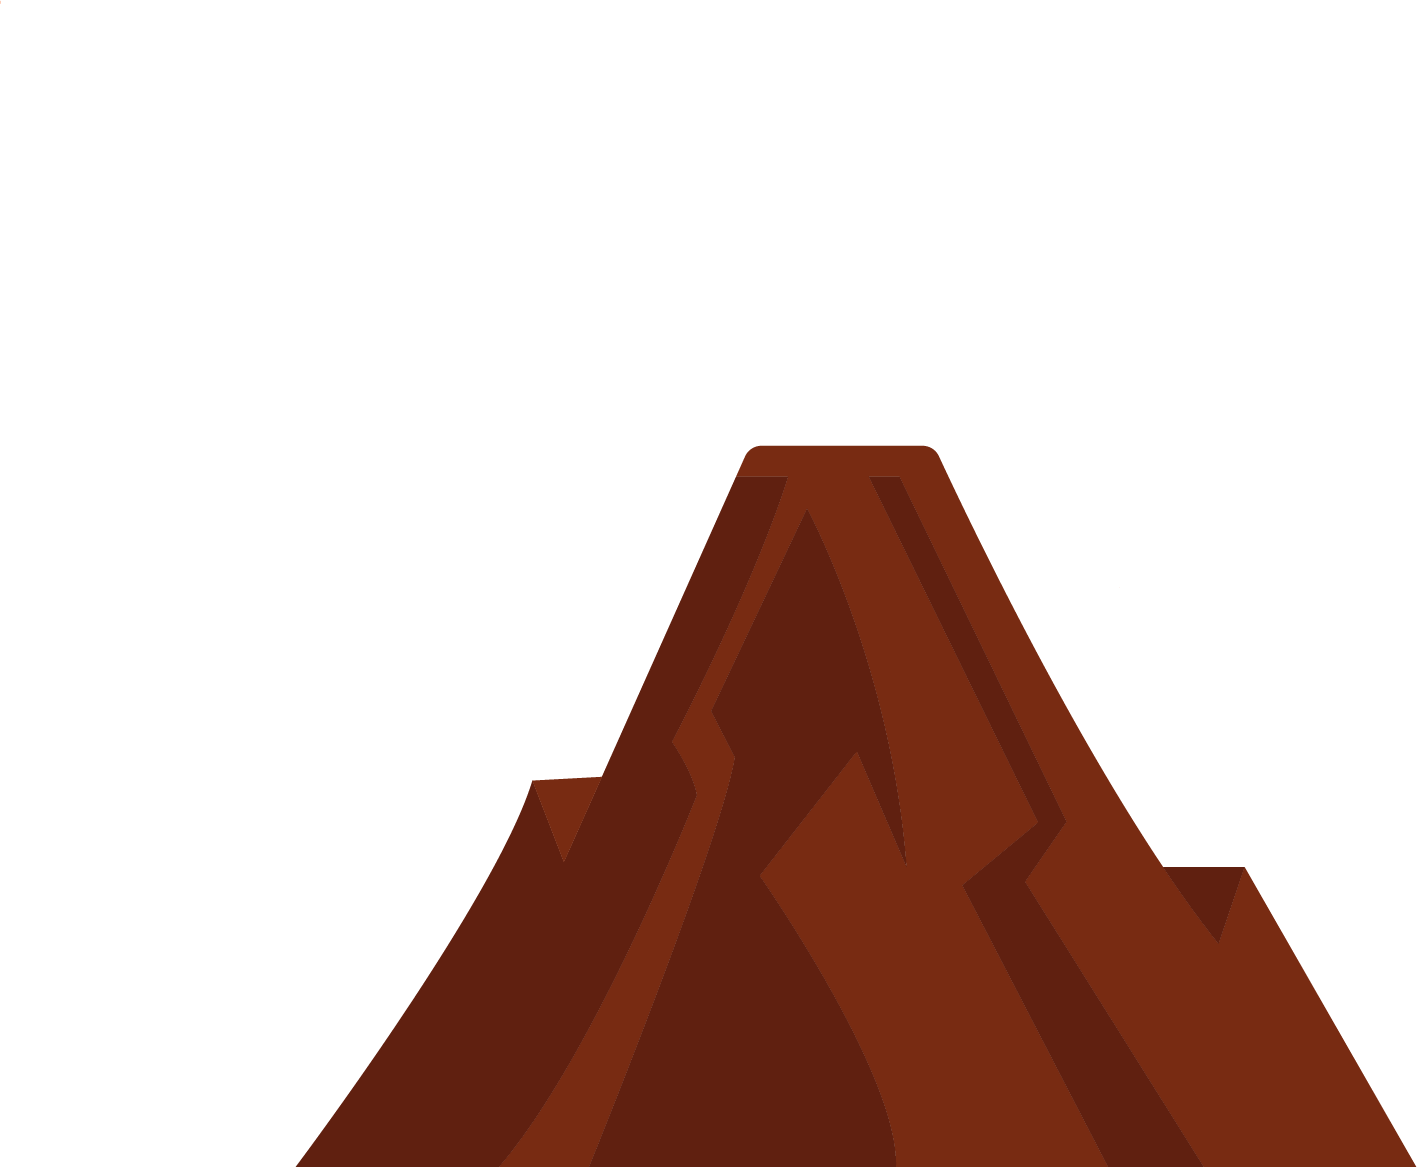
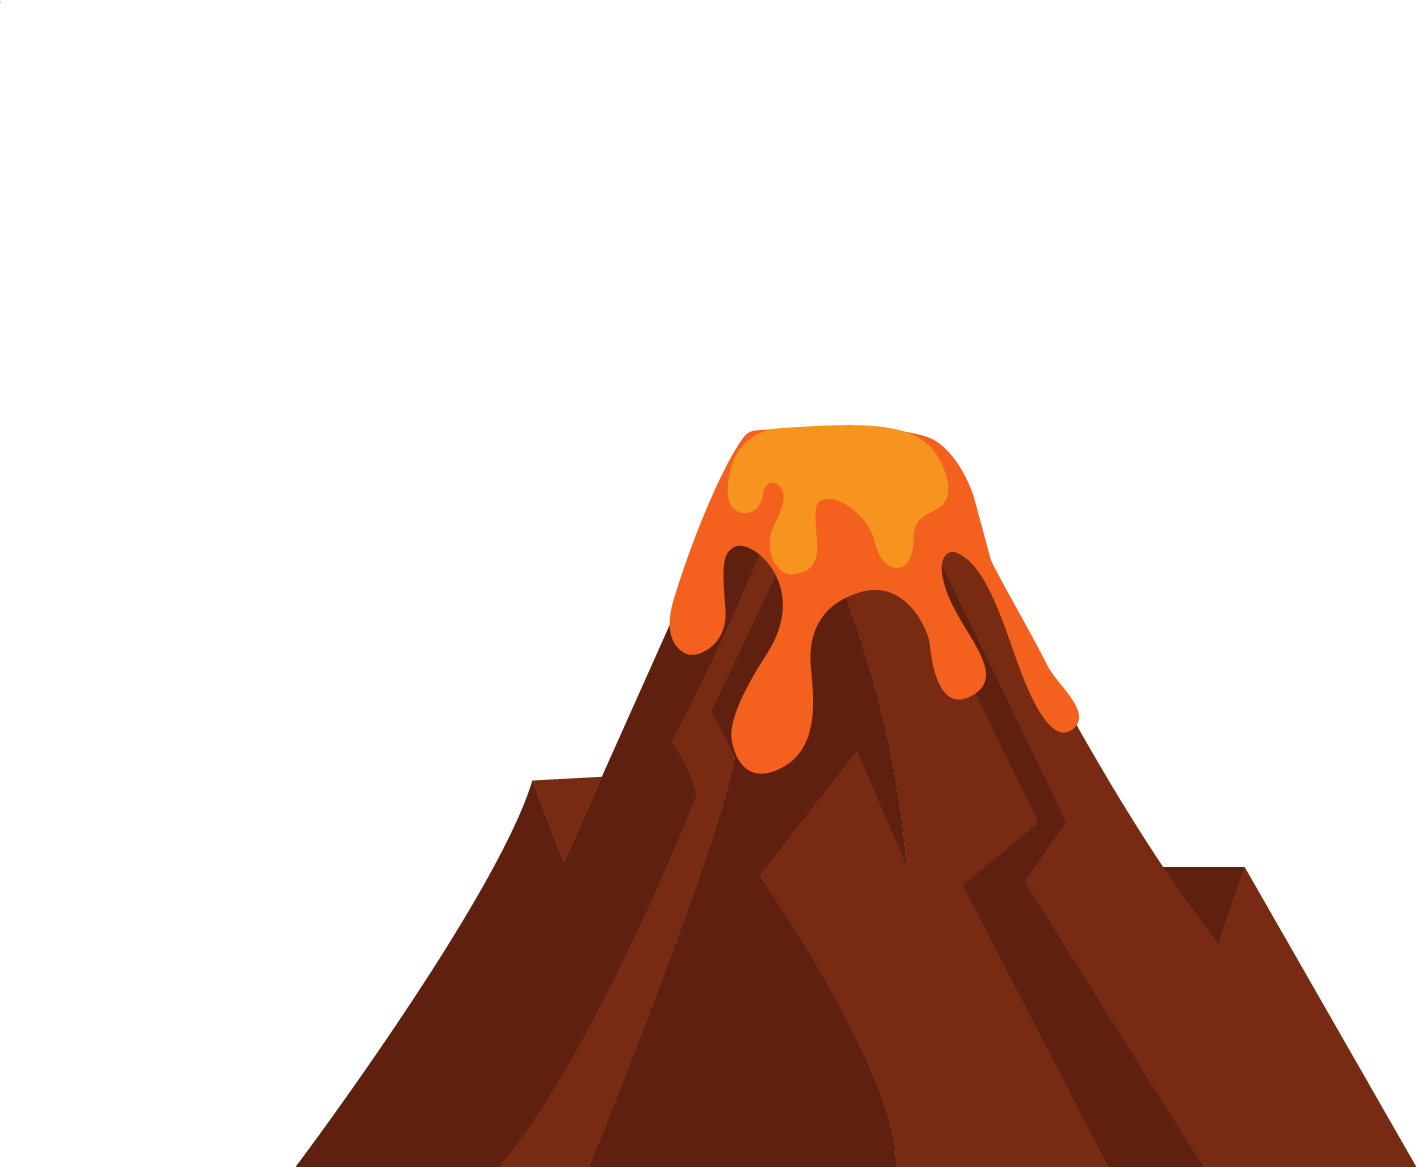
Änderungen

Changed region(s): [[0.4658, 0.3393, 0.7763, 0.6787]]

diff --git a/main.js b/main.js
@@ -1,114 +1,113 @@
 /* Preloader */
-(function(){
+(function () {
   const assets = [
     'https://images.unsplash.com/photo-1495567720989-cebdbdd97913?q=80&w=2400',
     'https://images.unsplash.com/photo-1501785888041-af3ef285b470?q=80&w=1600'
   ];
   const pre = document.getElementById('preloader');
   const bar = pre.querySelector('.bar > i');
-  let loaded=0;
-  function done(){gsap.to(pre,{autoAlpha:0,duration:.6,pointerEvents:'none',onComplete:()=>pre.style.display='none'});}
-  assets.forEach(src=>{
-    const img=new Image();
-    img.src=src;
-    img.onload=img.onerror=()=>{
+  let loaded = 0;
+  function done() { gsap.to(pre, { autoAlpha: 0, duration: .6, pointerEvents: 'none', onComplete: () => pre.style.display = 'none' }); }
+  assets.forEach(src => {
+    const img = new Image();
+    img.src = src;
+    img.onload = img.onerror = () => {
       loaded++;
-      bar.style.width=Math.round((loaded/assets.length)*100)+'%';
-      if(loaded===assets.length) setTimeout(done,350);
+      bar.style.width = Math.round((loaded / assets.length) * 100) + '%';
+      if (loaded === assets.length) setTimeout(done, 350);
     };
   });
 })();
 
 /* Cursor */
-document.addEventListener('mousemove', e=>{
-  const c=document.getElementById('cursor');
-  c.style.left=e.clientX+'px';
-  c.style.top=e.clientY+'px';
+document.addEventListener('mousemove', e => {
+  const c = document.getElementById('cursor');
+  c.style.left = e.clientX + 'px';
+  c.style.top = e.clientY + 'px';
 });
-document.addEventListener('mousedown', ()=>document.getElementById('cursor').classList.add('big'));
-document.addEventListener('mouseup', ()=>document.getElementById('cursor').classList.remove('big'));
+document.addEventListener('mousedown', () => document.getElementById('cursor').classList.add('big'));
+document.addEventListener('mouseup', () => document.getElementById('cursor').classList.remove('big'));
 
 /* GSAP / ScrollTrigger */
-document.addEventListener('DOMContentLoaded', function(){
-  if(typeof gsap==='undefined'||typeof ScrollTrigger==='undefined'){console.warn('GSAP/ScrollTrigger nicht verfügbar');return;}
+document.addEventListener('DOMContentLoaded', function () {
+  if (typeof gsap === 'undefined' || typeof ScrollTrigger === 'undefined') { console.warn('GSAP/ScrollTrigger nicht verfügbar'); return; }
   gsap.registerPlugin(ScrollTrigger);
-  const reduce=window.matchMedia('(prefers-reduced-motion: reduce)').matches;
-  if(reduce){gsap.utils.toArray('.panel .inner').forEach(el=>gsap.from(el,{opacity:1,y:0,duration:0}));return;}
+  const reduce = window.matchMedia('(prefers-reduced-motion: reduce)').matches;
+  if (reduce) { gsap.utils.toArray('.panel .inner').forEach(el => gsap.from(el, { opacity: 1, y: 0, duration: 0 })); return; }
 
   /* HERO TIMELINE */
-  const heroTl=gsap.timeline({
-    scrollTrigger:{
-      trigger:'#hero',
-      start:'top top',
-      end:'+=1400',
-      scrub:0.8,
-      pin:true,
-      anticipatePin:1
+  const heroTl = gsap.timeline({
+    scrollTrigger: {
+      trigger: '#hero',
+      start: 'top top',
+      end: '+=1400',
+      scrub: 0.8,
+      pin: true,
+      anticipatePin: 1
     }
   });
-  heroTl.to('#heroBg',{scale:1.18,duration:1.6,ease:'power1.out'},0);
-  heroTl.to('#heroTint',{background:"linear-gradient(180deg, rgba(68,0,0,0.45), rgba(0,0,0,0.55))",duration:1.4,ease:'power2.out'},0.2);
-  gsap.set('#lava',{scaleY:0.03,opacity:0});
-  heroTl.to('#lava',{opacity:1,scaleY:1.06,y:'-9vh',duration:1.2,ease:'power2.out'},0.25);
-  gsap.set('#smoke',{opacity:0,scale:0.98});
-  heroTl.to('#smoke',{opacity:0.98,y:'-26vh',scale:1.06,duration:1.8,ease:'power2.out'},0.5);
-  gsap.set('#ash',{opacity:0,y:0});
-  heroTl.to('#ash',{opacity:1,y:'-6vh',duration:1.1,ease:'power2.out'},0.45);
-  heroTl.to('.hero__content',{y:-48,duration:1.2,ease:'power2.out'},0.15);
-  heroTl.to('.v-base',{x:'4px',duration:.08,yoyo:true,repeat:6,ease:'sine.inOut'},0.9);
-  heroTl.to('body',{background:'#120202',duration:1.6,ease:'power2.inOut'},0.6);
+  heroTl.to('#heroBg', { scale: 1.18, duration: 1.6, ease: 'power1.out' }, 0);
+  heroTl.to('#heroTint', { background: "linear-gradient(180deg, rgba(68,0,0,0.45), rgba(0,0,0,0.55))", duration: 1.4, ease: 'power2.out' }, 0.2);
+  gsap.set('#lava', { scaleY: 0.03, scaleX: 0.2, opacity: 0 });
+  heroTl.to('#lava', { opacity: 1, scaleY: 1.06, scaleX: 1.2, y: '-20vh', x: '-2vh', duration: 1.2, ease: 'power2.out' }, 0.25); gsap.set('#smoke', { opacity: 0, scale: 0.98 });
+  heroTl.to('#smoke', { opacity: 0.98, y: '-26vh', scale: 1.06, duration: 1.8, ease: 'power2.out' }, 0.5);
+  gsap.set('#ash', { opacity: 0, y: 0 });
+  heroTl.to('#ash', { opacity: 1, y: '-6vh', duration: 1.1, ease: 'power2.out' }, 0.45);
+  heroTl.to('.hero__content', { y: -48, duration: 1.2, ease: 'power2.out' }, 0.15);
+  heroTl.to('.v-base', { x: '4px', duration: .08, yoyo: true, repeat: 6, ease: 'sine.inOut' }, 0.9);
+  heroTl.to('body', { background: '#120202', duration: 1.6, ease: 'power2.inOut' }, 0.6);
 
   /* Loop Smoke & Lava */
-  gsap.to('#smoke',{x:40,duration:8,yoyo:true,repeat:-1,ease:'sine.inOut',opacity:0.95});
+  gsap.to('#smoke', { x: 40, duration: 8, yoyo: true, repeat: -1, ease: 'sine.inOut', opacity: 0.95 });
   gsap.to('#lava', {
-  rotation: 3,         // swings +3 degrees (you can change this)
-  duration: 4,
-  yoyo: true,
-  repeat: -1,
-  ease: "sine.inOut"
-});
+    rotation: 3,         // swings +3 degrees (you can change this)
+    duration: 4,
+    yoyo: true,
+    repeat: -1,
+    ease: "sine.inOut"
+  });
 
   /* Panels fade-ins */
-  gsap.utils.toArray('section.panel').forEach(panel=>{
-    gsap.from(panel.querySelector('.inner'),{
-      scrollTrigger:{
-        trigger:panel,
-        start:'top 70%',
-        end:'top 40%',
-        toggleActions:'play none none reverse'
+  gsap.utils.toArray('section.panel').forEach(panel => {
+    gsap.from(panel.querySelector('.inner'), {
+      scrollTrigger: {
+        trigger: panel,
+        start: 'top 70%',
+        end: 'top 40%',
+        toggleActions: 'play none none reverse'
       },
-      y:40,
-      opacity:0,
-      duration:.9,
-      ease:'power2.out'
+      y: 40,
+      opacity: 0,
+      duration: .9,
+      ease: 'power2.out'
     });
   });
 
   /* Horizontale Scroll-Sektion */
-  const hWrapper=document.querySelector('.panel.horizontal .inner-wrapper');
-  gsap.to(hWrapper,{
-    xPercent:-200,
-    ease:"none",
-    scrollTrigger:{
-      trigger:".panel.horizontal",
-      start:"top top",
-      end:()=>"+="+window.innerWidth*2,
-      scrub:true,
-      pin:true,
-      anticipatePin:1
+  const hWrapper = document.querySelector('.panel.horizontal .inner-wrapper');
+  gsap.to(hWrapper, {
+    xPercent: -200,
+    ease: "none",
+    scrollTrigger: {
+      trigger: ".panel.horizontal",
+      start: "top top",
+      end: () => "+=" + window.innerWidth * 2,
+      scrub: true,
+      pin: true,
+      anticipatePin: 1
     }
   });
 });
 
 /* Audio Player */
-(function(){
-  const btn=document.getElementById('playBtn');
-  const audio=document.getElementById('bgAudio');
-  btn.addEventListener('click', async ()=>{
-    if(audio.paused){
-      try{await audio.play();btn.textContent='⏸';btn.setAttribute('aria-pressed','true');}catch(e){console.warn('Audio Start blocked',e);}
-    }else{
-      audio.pause();btn.textContent='▶';btn.setAttribute('aria-pressed','false');
+(function () {
+  const btn = document.getElementById('playBtn');
+  const audio = document.getElementById('bgAudio');
+  btn.addEventListener('click', async () => {
+    if (audio.paused) {
+      try { await audio.play(); btn.textContent = '⏸'; btn.setAttribute('aria-pressed', 'true'); } catch (e) { console.warn('Audio Start blocked', e); }
+    } else {
+      audio.pause(); btn.textContent = '▶'; btn.setAttribute('aria-pressed', 'false');
     }
   });
 })();

diff --git a/styles.css b/styles.css
@@ -102,7 +102,7 @@ header.hero {
   position: absolute;
   left: 43%;
   transform: translateX(-50%);
-  bottom: -50px;
+  bottom: -30px;
   width: 70vw;
   max-width: 900px;
   height: 70vh;
